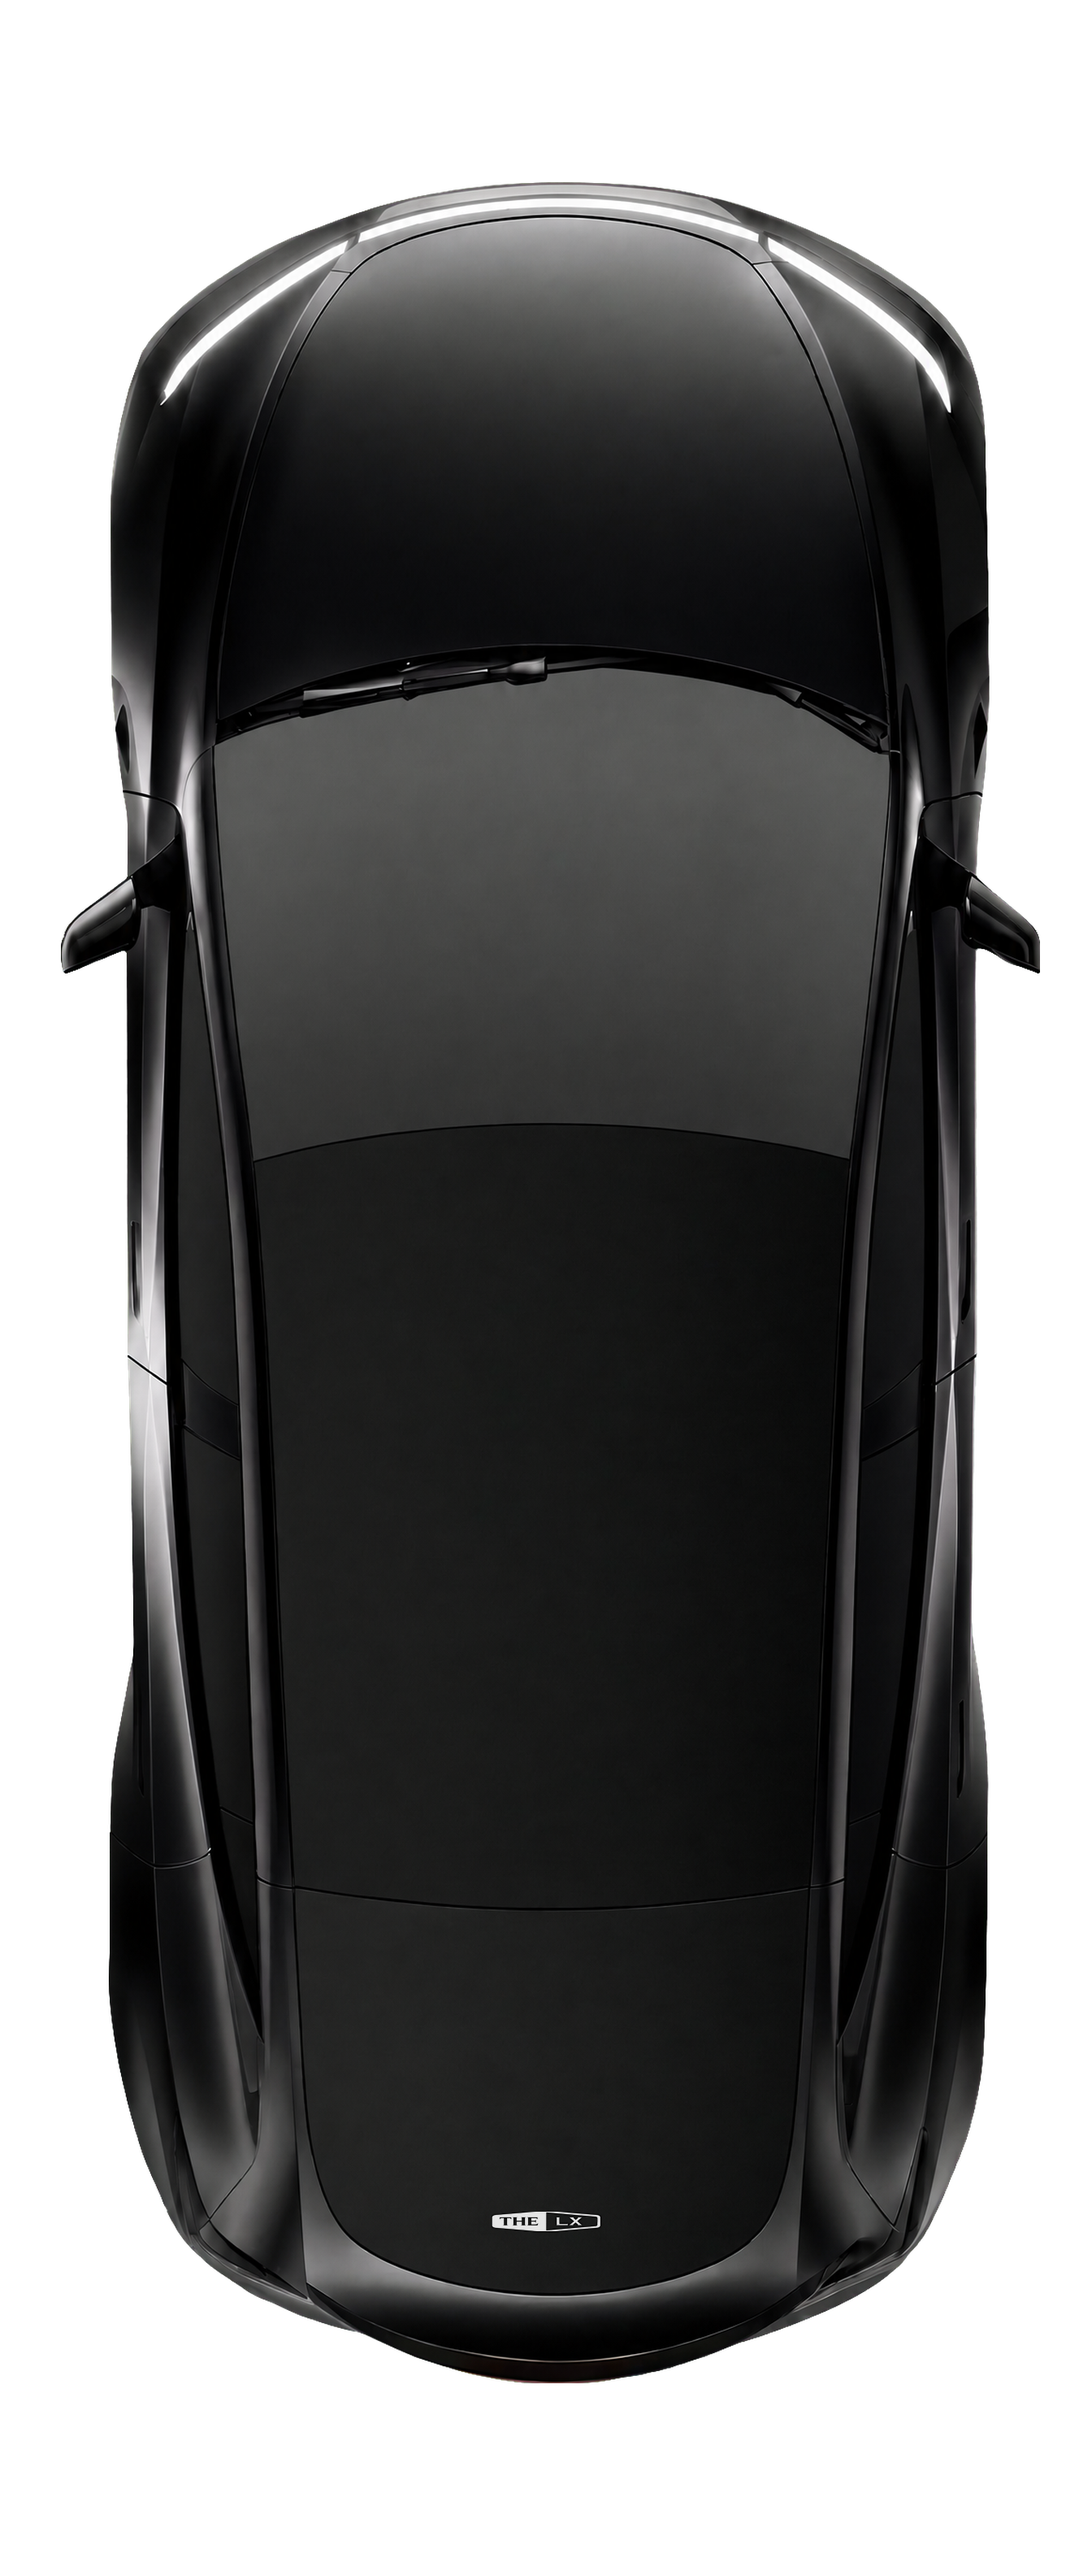
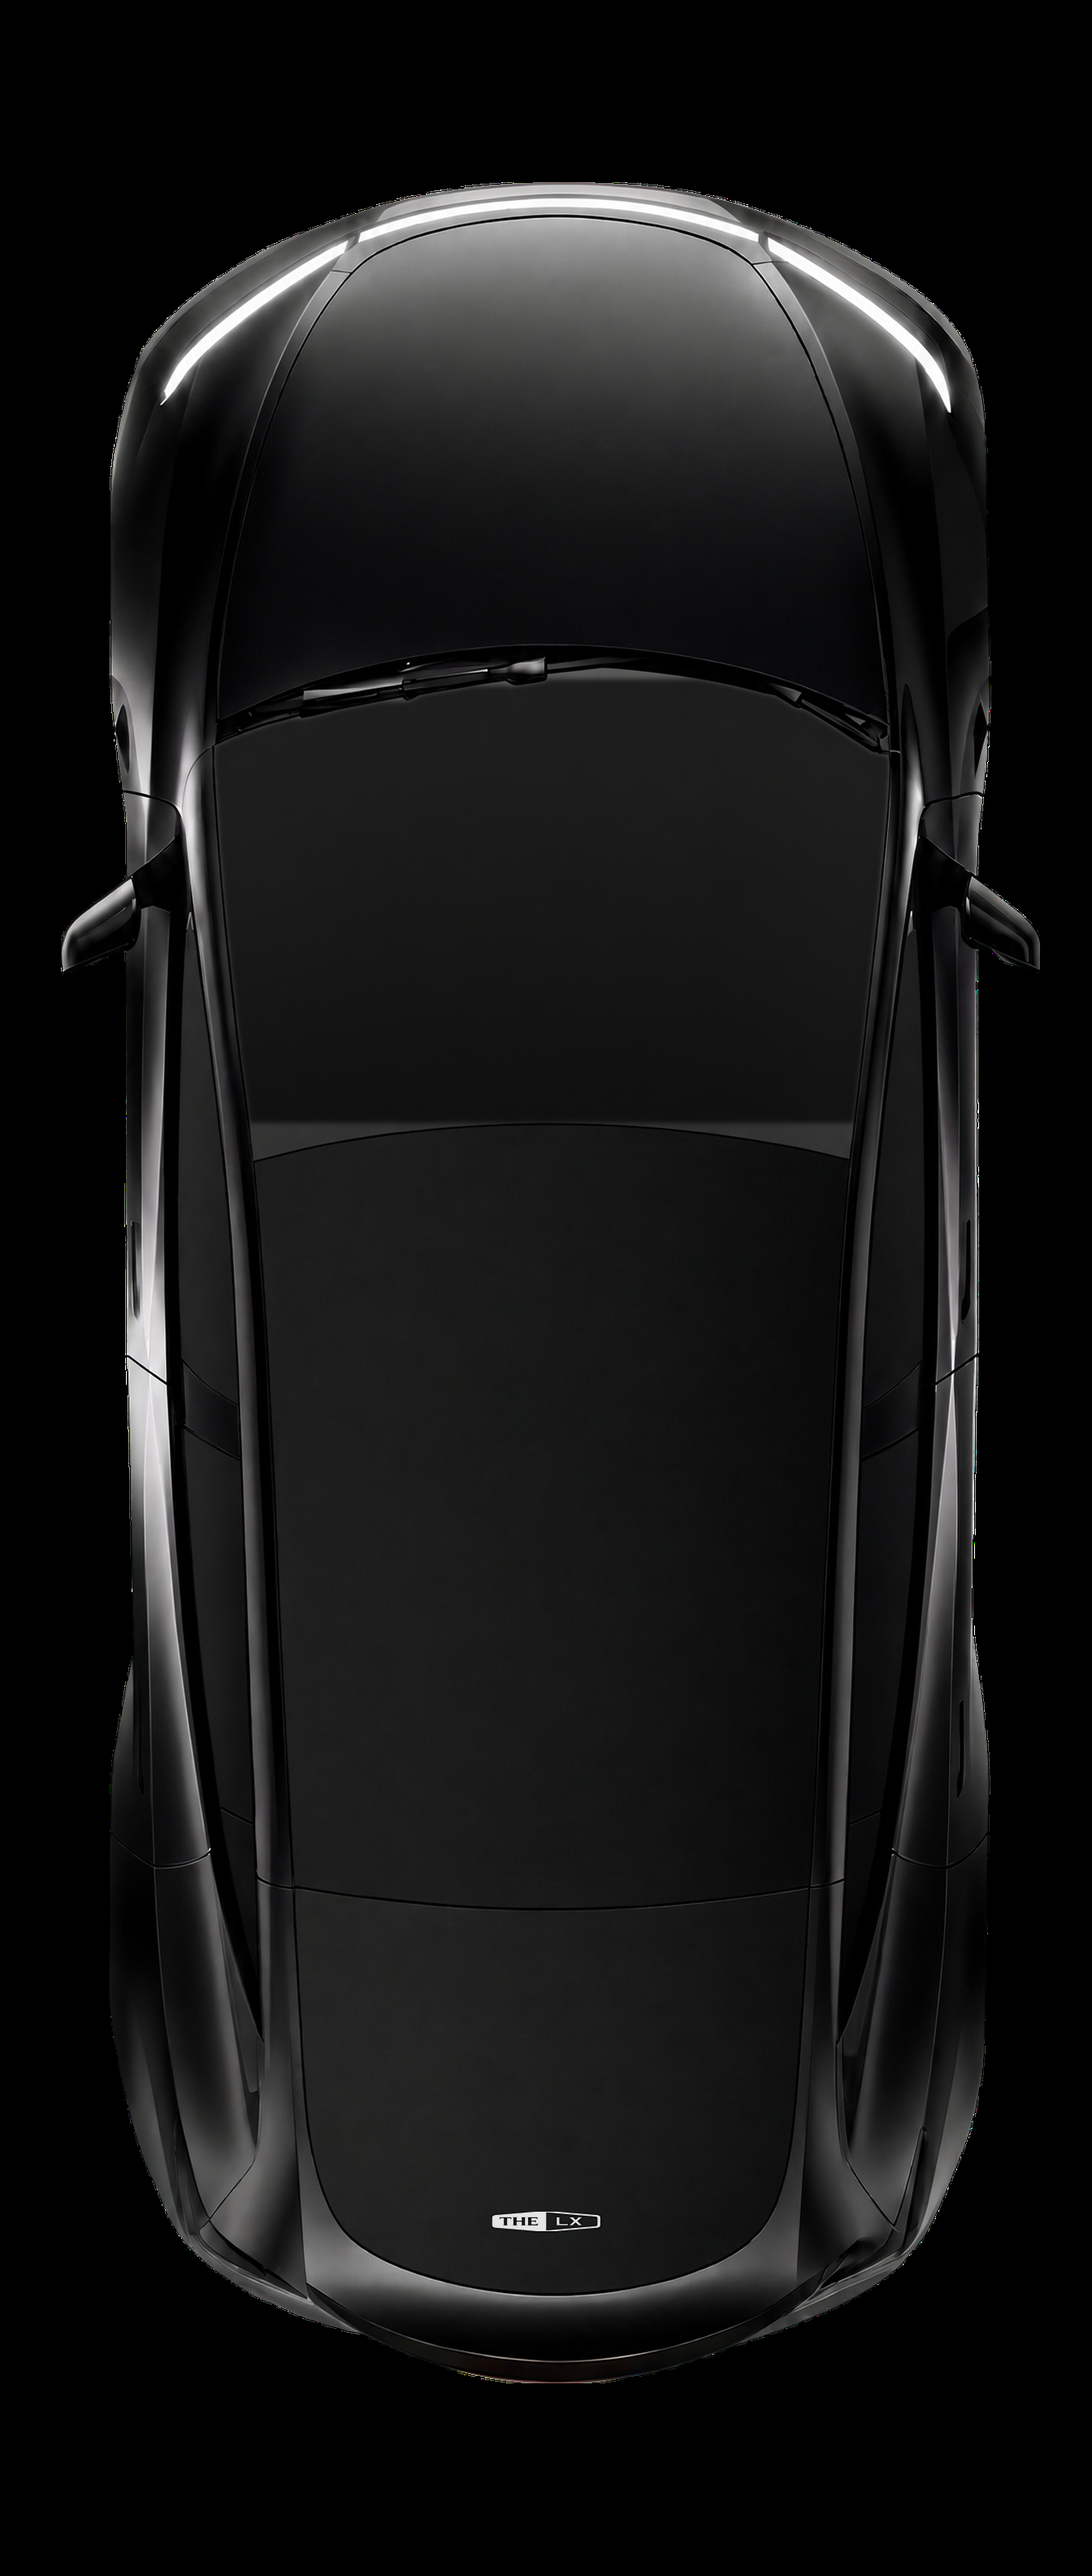
tesla: 커스텀 2 검정 모델 Y 전면 유리를 루프·측후면과 같은 제니스IR 톤으로(이미지 수정, ?v=2)

diff --git a/tesla.html b/tesla.html
@@ -862,7 +862,7 @@ img,svg{display:block;max-width:100%} a{color:inherit}
     <h2>테슬라 오너가 사랑하는 조합</h2>
     <div class="tv-grid tv-combo-grid">
         <div><small>커스텀 1</small><b>전면 LX · 측후면 LX · 루프 제니스IR</b><small style="margin-top:6px">전면과 측후면으로 들어오는 복사열을 반사하고, 루프는 세라믹으로.</small><div class="tv-combo"><div class="tv-combo-stage"><img class="tv-combo-img" src="img/v3/hf_top1_v.webp" alt="조합 1: 전면과 측후면 LX, 루프 제니스IR — 흰 모델 Y 탑뷰(세로)" width="1344" height="3168" loading="lazy"><div class="tv-co hz" style="left:52%;top:31%;--h:150px;--w:150px"><span><b>전면</b>LX · 풀메탈 스퍼터</span></div><div class="tv-co hz" style="left:50%;top:53%;--h:150px;--w:150px"><span><b>루프</b>제니스IR · 나노 세라믹</span></div><div class="tv-co hz" style="left:52%;top:78%;--h:150px;--w:150px"><span><b>측후면</b>LX · 풀메탈 스퍼터</span></div></div></div></div>
-        <div><small>커스텀 2</small><b>전면 제니스IR · 측후면 제니스IR · 루프 제니스IR</b><small style="margin-top:6px">전파 간섭 우려와 비용을 함께 고려하는 선택.</small><div class="tv-combo"><div class="tv-combo-stage"><img class="tv-combo-img" src="img/v3/hf_top2_v.webp" alt="조합 2: 전면·측후면·루프 모두 제니스IR — 검정 모델 Y 탑뷰(세로)" width="1344" height="3168" loading="lazy"><div class="tv-co hz" style="left:52%;top:31%;--h:150px;--w:150px"><span><b>전면</b>제니스IR · 나노 세라믹</span></div><div class="tv-co hz" style="left:50%;top:53%;--h:150px;--w:150px"><span><b>루프</b>제니스IR · 나노 세라믹</span></div><div class="tv-co hz" style="left:52%;top:78%;--h:150px;--w:150px"><span><b>측후면</b>제니스IR · 나노 세라믹</span></div></div></div></div>
+        <div><small>커스텀 2</small><b>전면 제니스IR · 측후면 제니스IR · 루프 제니스IR</b><small style="margin-top:6px">전파 간섭 우려와 비용을 함께 고려하는 선택.</small><div class="tv-combo"><div class="tv-combo-stage"><img class="tv-combo-img" src="img/v3/hf_top2_v.webp?v=2" alt="조합 2: 전면·측후면·루프 모두 제니스IR — 검정 모델 Y 탑뷰(세로)" width="1344" height="3168" loading="lazy"><div class="tv-co hz" style="left:52%;top:31%;--h:150px;--w:150px"><span><b>전면</b>제니스IR · 나노 세라믹</span></div><div class="tv-co hz" style="left:50%;top:53%;--h:150px;--w:150px"><span><b>루프</b>제니스IR · 나노 세라믹</span></div><div class="tv-co hz" style="left:52%;top:78%;--h:150px;--w:150px"><span><b>측후면</b>제니스IR · 나노 세라믹</span></div></div></div></div>
     </div>
   </div>
 </section>
